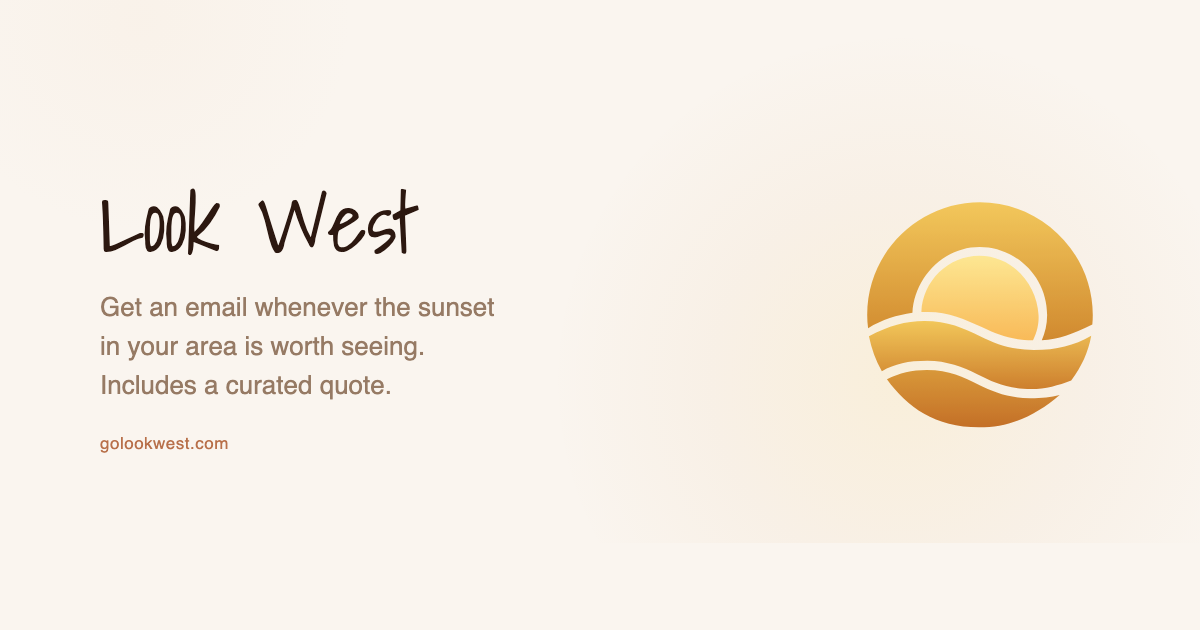
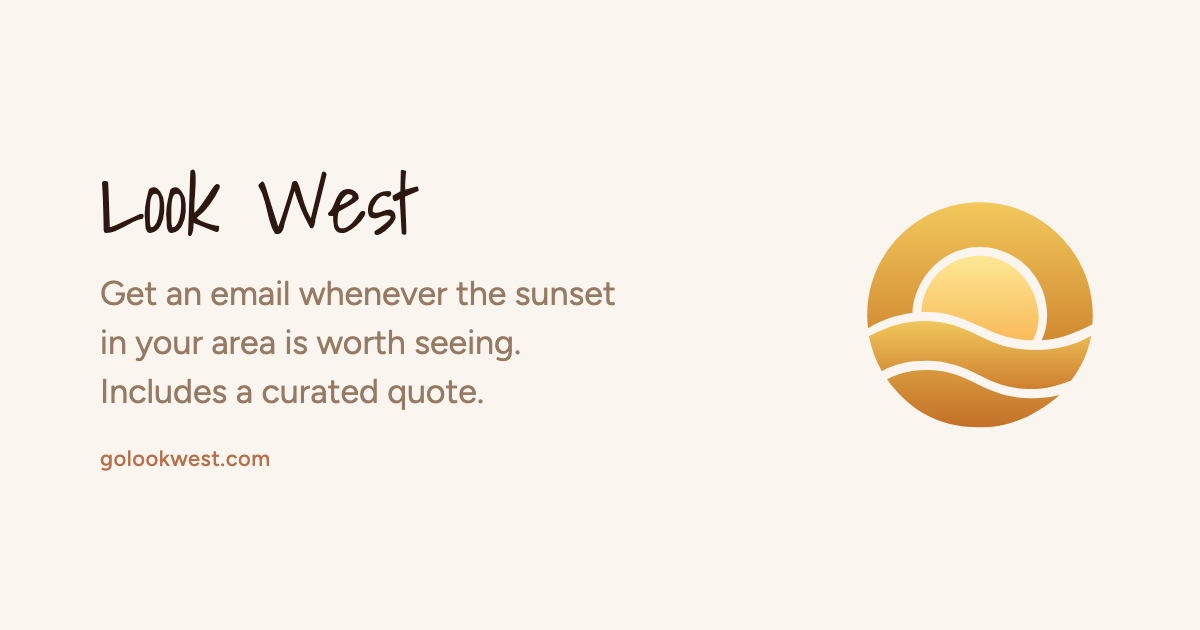
Remove glow effects and update font sizes in OG template

diff --git a/public/og-template.html b/public/og-template.html
@@ -16,30 +16,6 @@
     position: relative;
   }
 
-  /* Warm ambient wash — bottom-right corner glow */
-  .glow {
-    position: absolute;
-    bottom: -200px;
-    right: -150px;
-    width: 900px;
-    height: 900px;
-    border-radius: 50%;
-    background: radial-gradient(circle, rgba(242,193,68,0.12) 0%, rgba(202,120,16,0.04) 30%, transparent 55%);
-    pointer-events: none;
-  }
-
-  /* Subtle top-left counter glow */
-  .glow-secondary {
-    position: absolute;
-    top: -280px;
-    left: -160px;
-    width: 600px;
-    height: 600px;
-    border-radius: 50%;
-    background: radial-gradient(circle, rgba(240,212,184,0.1) 0%, transparent 50%);
-    pointer-events: none;
-  }
-
   .card {
     width: 100%;
     height: 100%;
@@ -67,16 +43,16 @@
 
   .tagline {
     font-family: 'Figtree', sans-serif;
-    font-size: 26px;
+    font-size: 34px;
     font-weight: 400;
     color: #967a64;
-    line-height: 1.5;
-    max-width: 420px;
+    line-height: 1.45;
+    max-width: 540px;
   }
 
   .url {
     font-family: 'Figtree', sans-serif;
-    font-size: 17px;
+    font-size: 22px;
     font-weight: 500;
     color: #b8704a;
     letter-spacing: 0.5px;
@@ -103,9 +79,6 @@
 </style>
 </head>
 <body>
-  <div class="glow"></div>
-  <div class="glow-secondary"></div>
-
   <div class="card">
     <div class="content">
       <div class="title">Look West</div>
